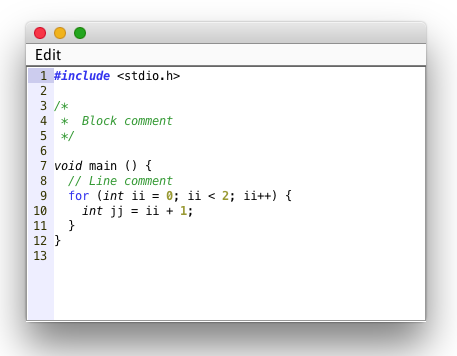
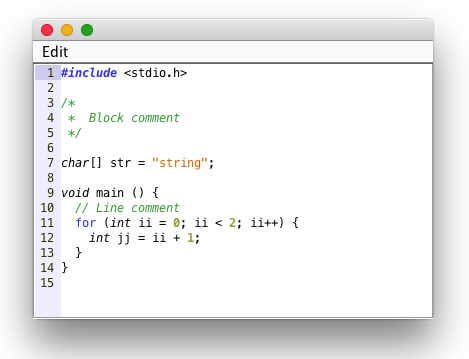
Update screen shot

Changed region(s): [[0.0306, 0.0618, 0.9497, 0.927], [0.1532, 0.6798, 0.1838, 0.7107]]

diff --git a/src/TestEditor.java b/src/TestEditor.java
@@ -37,6 +37,7 @@ public class TestEditor extends JFrame {
       "/*\n" +
       " *  Block comment\n" +
       " */\n\n" +
+      "char[] str = \"string\";\n\n" +
       "void main () {\n" +
       "  // Line comment\n" +
       "  for (int ii = 0; ii < 2; ii++) {\n" +
